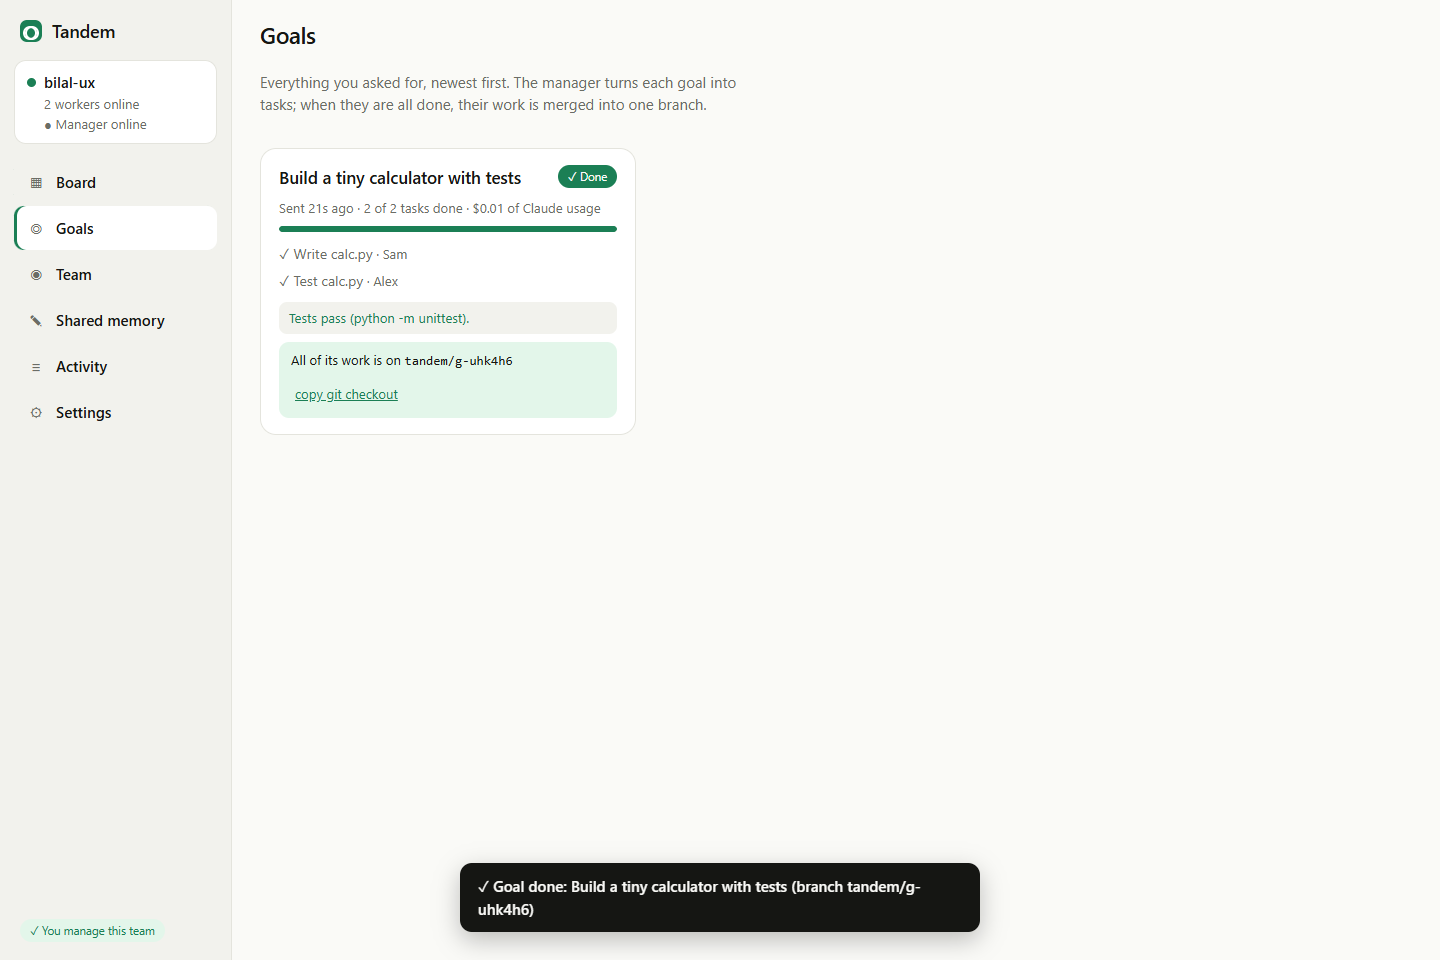
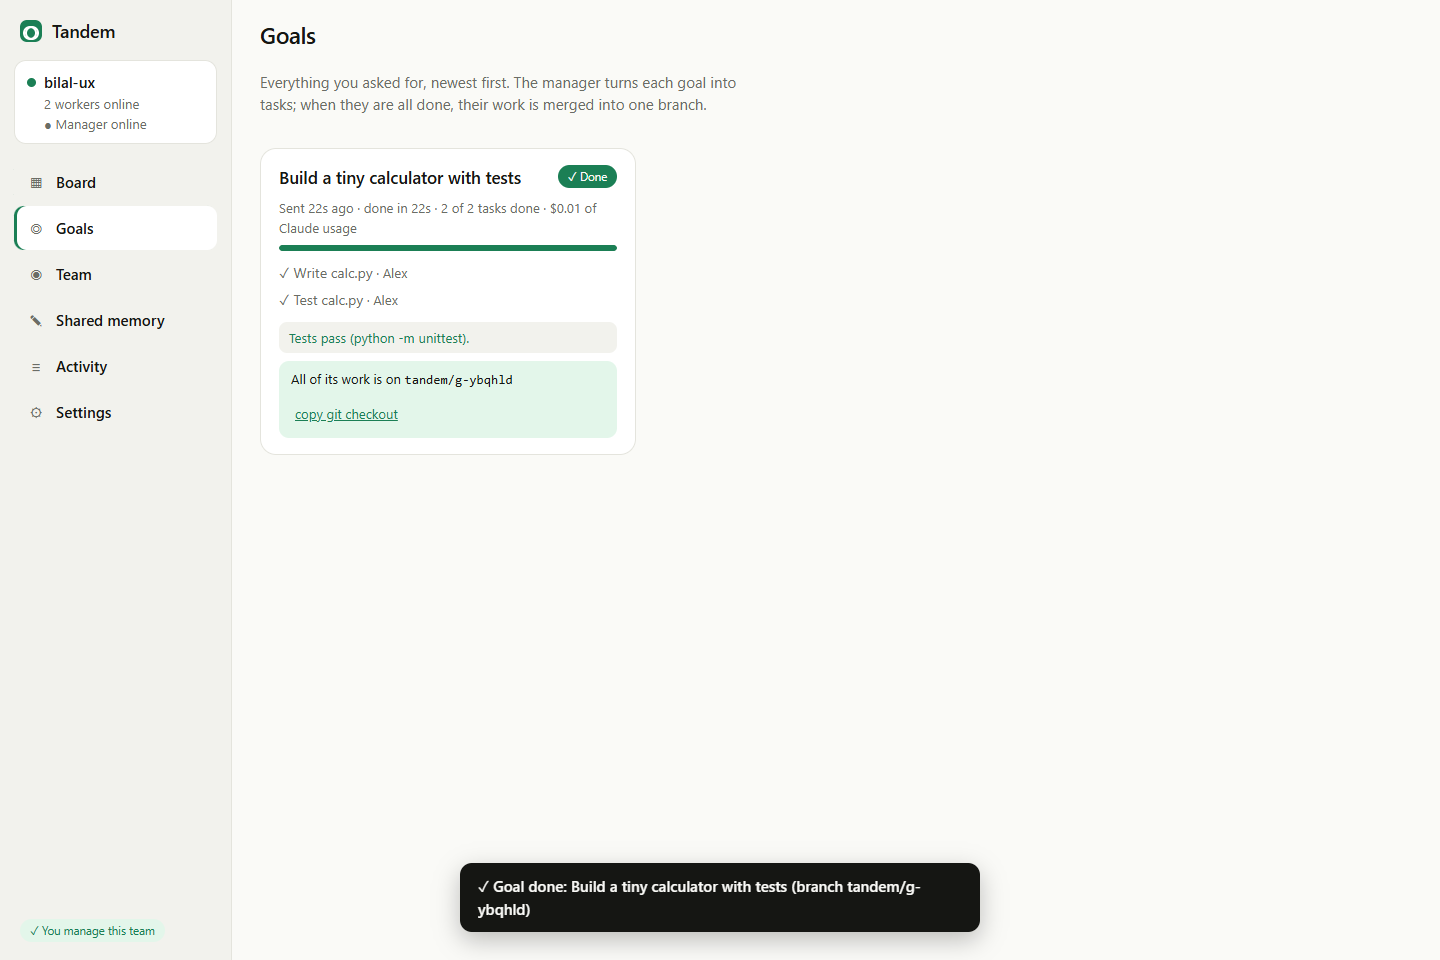
First-use touches: example goals to click, / jumps to the prompt, goal cards say how long the goal took; fresh README screenshots

Changed region(s): [[0.1875, 0.1875, 0.4375, 0.4688], [0.3438, 0.9375, 0.375, 0.9688]]

diff --git a/dashboard/src/Board.tsx b/dashboard/src/Board.tsx
@@ -88,10 +88,27 @@ function NextStep({ snap, api, isOp, now, say, go, openTask }: Props & { openTas
   return null;
 }
 
+// For a first-time owner: goals small enough to finish in a few minutes.
+const EXAMPLES = [
+  'A tiny Python calculator: calc.py with add and sub, unittest tests, and a README',
+  'A command-line to-do list in Python that saves to todo.json, with unittest tests',
+  'A one-page pomodoro timer: index.html, styles.css and app.js',
+];
+
 function Prompt({ snap, api, isOp, say }: Props) {
   const [text, setText] = useState('');
   const [busy, setBusy] = useState(false);
+  const input = useRef<HTMLInputElement>(null);
   const latest = snap.goals[0];
+  // "/" jumps to the prompt, like search boxes do
+  useEffect(() => {
+    const onKey = (e: KeyboardEvent) => {
+      const typing = e.target instanceof HTMLElement && /^(INPUT|TEXTAREA|SELECT)$/.test(e.target.tagName);
+      if (e.key === '/' && !typing && input.current && !input.current.disabled) { e.preventDefault(); input.current.focus(); }
+    };
+    window.addEventListener('keydown', onKey);
+    return () => window.removeEventListener('keydown', onKey);
+  }, []);
   const send = async (e: React.FormEvent) => {
     e.preventDefault();
     if (!api || !text.trim() || busy) return;
@@ -103,11 +120,16 @@ function Prompt({ snap, api, isOp, say }: Props) {
   return (
     <section className="prompt" aria-label="Send work to the team">
       <form onSubmit={send} className={isOp ? '' : 'readonly'}>
-        <input value={text} onChange={e => setText(e.target.value)} disabled={!isOp || busy}
+        <input ref={input} value={text} onChange={e => setText(e.target.value)} disabled={!isOp || busy}
           aria-label="Describe what you want built"
           placeholder={isOp ? 'Describe what you want built…' : 'View only: ask to make changes'} />
         <button type="submit" className="btn primary" disabled={!isOp || busy || !text.trim()}>Send</button>
       </form>
+      {isOp && !latest && !text && (
+        <p className="small examples"><span className="muted">Try one:</span>
+          {EXAMPLES.map(x => <button key={x} type="button" className="chip example" onClick={() => { setText(x); input.current?.focus(); }}>{x}</button>)}
+        </p>
+      )}
       {latest && (
         <p className="small latest">
           <span className="muted">Latest goal:</span> <span className="goal-text">{latest.text}</span>

diff --git a/dashboard/test/ui.test.ts b/dashboard/test/ui.test.ts
@@ -84,6 +84,11 @@ try {
   check('approve: after approving, the next step is "No workers are online"', await seen(A, 'No workers are online.', 5000));
 
   // ---- 4. send a goal ----
+  check('goal: a new owner gets example goals; clicking one fills the prompt', await A.locator('.chip.example').count() === 3 &&
+    await A.locator('.chip.example').first().click().then(() => prompt(A).inputValue()).then(v => v.startsWith('A tiny Python calculator')));
+  await A.locator('body').click({ position: { x: 5, y: 5 } });
+  await A.keyboard.press('/');
+  check('goal: "/" jumps to the prompt', await prompt(A).evaluate(el => el === document.activeElement));
   await prompt(A).fill('Build a tiny calculator with tests');
   await A.getByRole('button', { name: /^Send/ }).click();
   check('goal: the latest goal shows "Waiting for the manager"', await seen(A, 'Waiting for the manager', 4000) && await seen(A, 'Build a tiny calculator with tests', 1000));
@@ -151,7 +156,7 @@ try {
   await nav(A, 'Goals');
   const card = await A.locator('.goal-card').first().innerText();
   check('goals page: the finished goal lists its tasks and where its work is', card.includes('Write calc.py') && card.includes('Test calc.py') && card.includes(`tandem/${goalId}`) && card.includes('2 of 2 tasks done'), card);
-  check('goals page: it shows how it went and what it cost', card.includes('Tests pass') && card.includes('$0.01 of Claude usage'), card);
+  check('goals page: it shows how it went, how long it took and what it cost', card.includes('Tests pass') && /done in \d/.test(card) && card.includes('$0.01 of Claude usage'), card);
   await shot(A, '06b-goals');
   await nav(A, 'Team');
   check('team: each worker card says how many tasks it finished', await until(async () => /\d+ tasks? done/.test(await A.locator('.worker').first().innerText())));

diff --git a/dashboard/src/Pages.tsx b/dashboard/src/Pages.tsx
@@ -35,10 +35,13 @@ export function GoalsPage({ snap, now, say }: Common) {
           const mine = snap.tasks.filter(t => t.goalId === g.id);
           const done = mine.filter(t => t.status === 'done').length;
           const cost = g.costUsd + mine.reduce((sum, t) => sum + t.costUsd, 0);
+          // when it was finished, from the brain's "Goal done" log line
+          const short = g.text.length > 60 ? g.text.slice(0, 57) + '...' : g.text;
+          const doneAt = g.status === 'done' ? snap.events.find(e => e.type === 'merge_unblocked' && e.message.startsWith(`Goal done: ${short}`))?.time : undefined;
           return (
             <article key={g.id} className="card goal-card">
               <header><h2 className="grow">{g.text}</h2><GoalChip status={g.status} /></header>
-              <p className="small muted">Sent {ago(g.createdAt, now)}{mine.length ? ` · ${done} of ${mine.length} tasks done` : ''}{cost > 0 ? ` · ${money(cost)} of Claude usage` : ''}</p>
+              <p className="small muted">Sent {ago(g.createdAt, now)}{doneAt ? ` · done in ${took(g.createdAt, doneAt.getTime())}` : ''}{mine.length ? ` · ${done} of ${mine.length} tasks done` : ''}{cost > 0 ? ` · ${money(cost)} of Claude usage` : ''}</p>
               {mine.length > 0 && <div className="bar"><div className="bar-fill job-fill" style={{ width: `${Math.round((100 * done) / mine.length)}%` }} /></div>}
               {mine.length > 0 && (
                 <ul className="plain goal-tasks">

diff --git a/dashboard/src/styles.css b/dashboard/src/styles.css
@@ -141,6 +141,9 @@ textarea { resize: vertical; }
 .prompt input:disabled { opacity: 0.65; }
 .prompt .btn { min-height: 56px; padding: 0 30px; font-size: 1.02rem; }
 .prompt .btn::after { content: ' \2192'; }
+.examples { display: flex; flex-wrap: wrap; align-items: center; gap: 6px; margin: 0 12px; }
+.chip.example { cursor: pointer; font: inherit; font-size: 0.85rem; text-align: left; }
+.chip.example:hover { border-color: var(--accent-strong); color: var(--ink); }
 .latest { display: flex; align-items: center; gap: 8px; flex-wrap: wrap; padding: 0 12px; }
 .goal-text { overflow: hidden; text-overflow: ellipsis; white-space: nowrap; max-width: 60ch; }
 .summary { display: flex; flex-direction: column; gap: 10px; }
